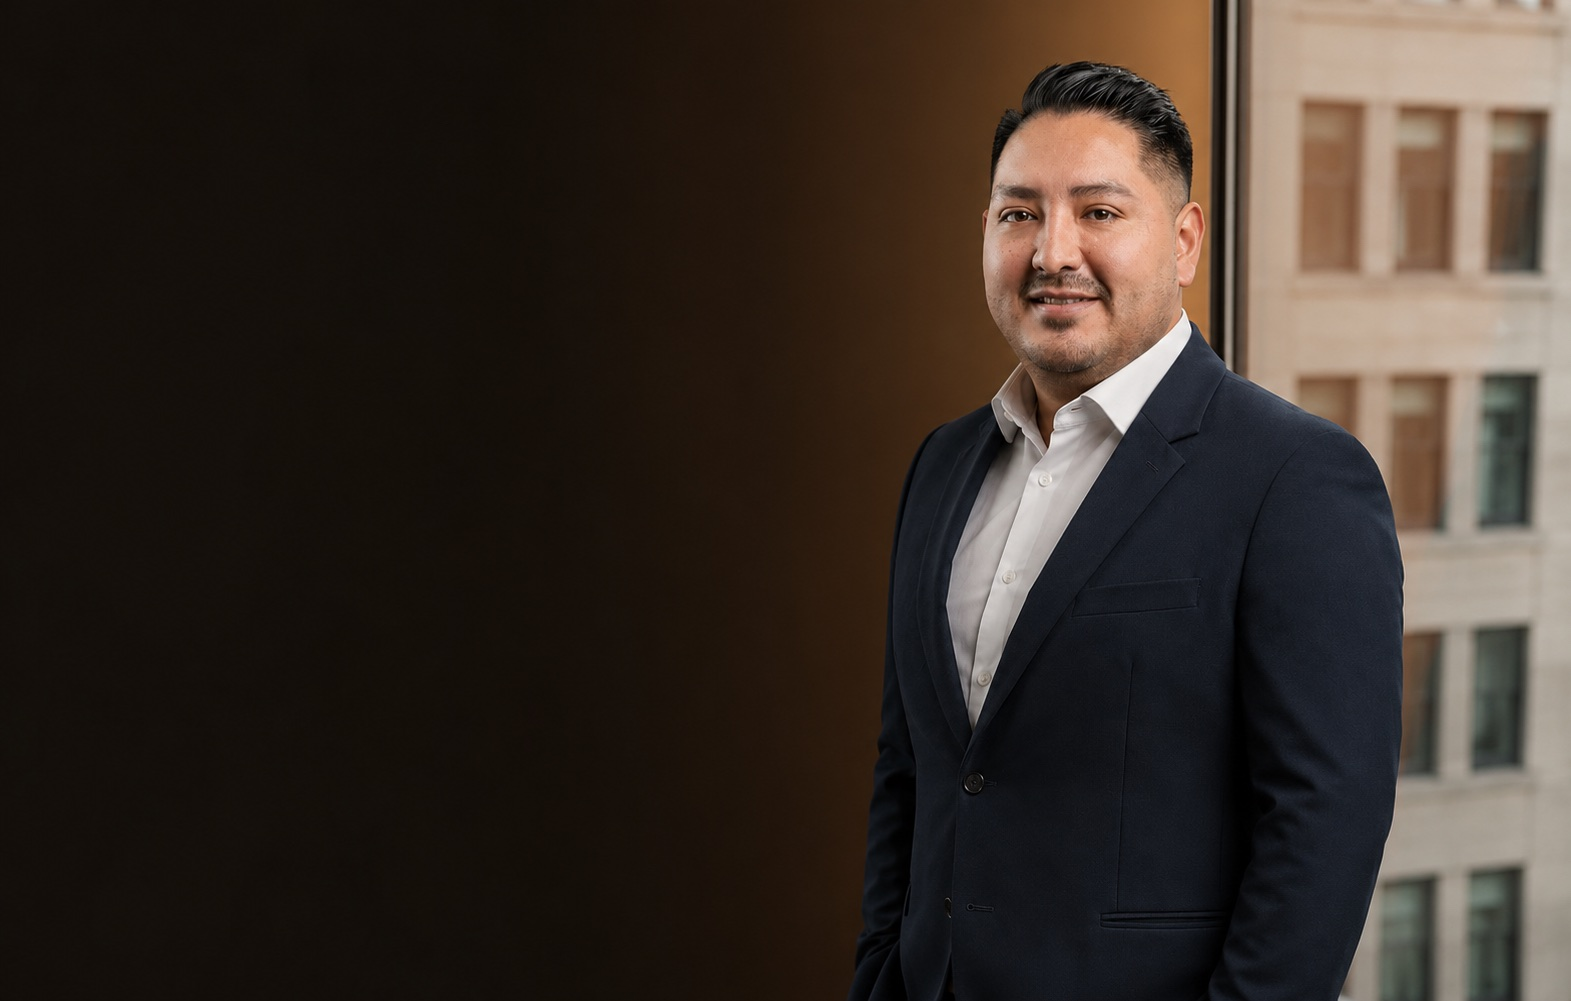
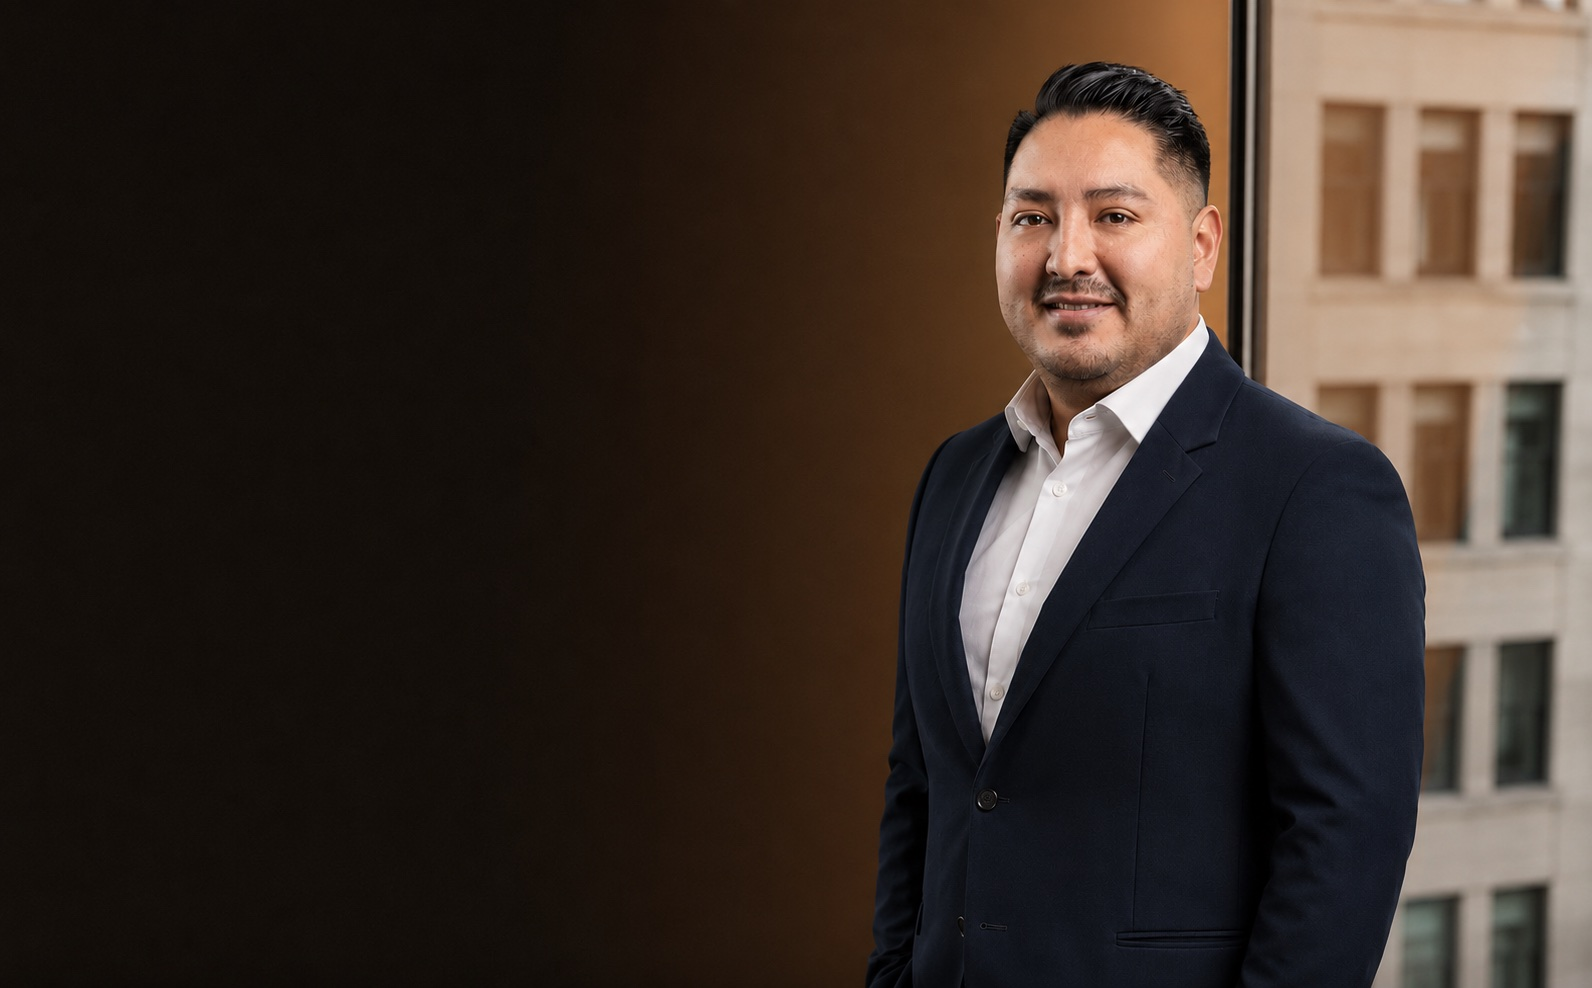
Nouvelle photo hero, header services retravaillé, correction email
- Photo hero remplacée par le nouveau portrait (sourire, veste navy)
- Header services : « Bien plus qu'un comptable. » à gauche,
  « 100% Digital. 100% humain. » en Fraunces à droite
- Email corrigé partout : [email redacted] (avec tiret)

diff --git a/README.md b/README.md
@@ -41,7 +41,7 @@ Suivre les prompts. Le `vercel.json` à la racine configure le build Astro.
 ## Personnalisations avant mise en ligne
 
 - **Numéro WhatsApp** : remplacer `32XXXXXXXXX` dans `src/pages/index.astro` (sections Contact et Footer) par le vrai numéro au format international sans `+` ni espaces (ex. `32477123456`).
-- **Email** : déjà configuré sur `[email redacted]`.
+- **Email** : déjà configuré sur `[email redacted]`.
 - **Objet du mail** : pré-rempli à `Demande de rendez-vous - R&C Advisory`.
 
 ## Structure